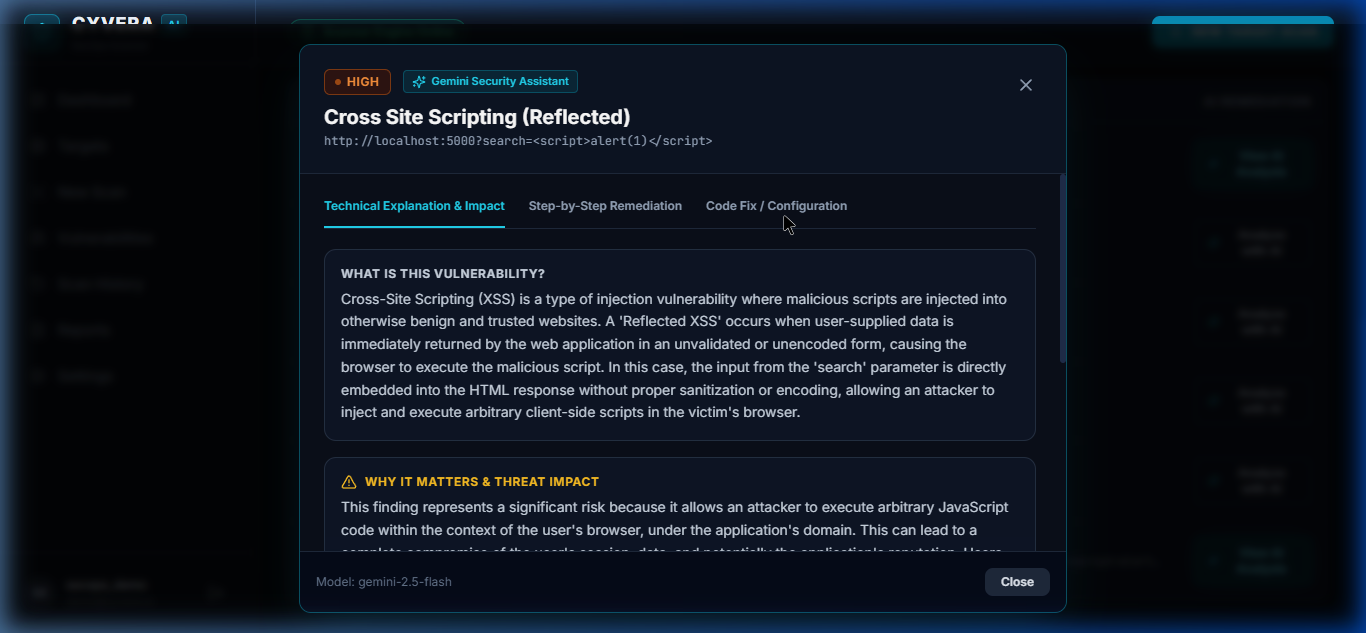
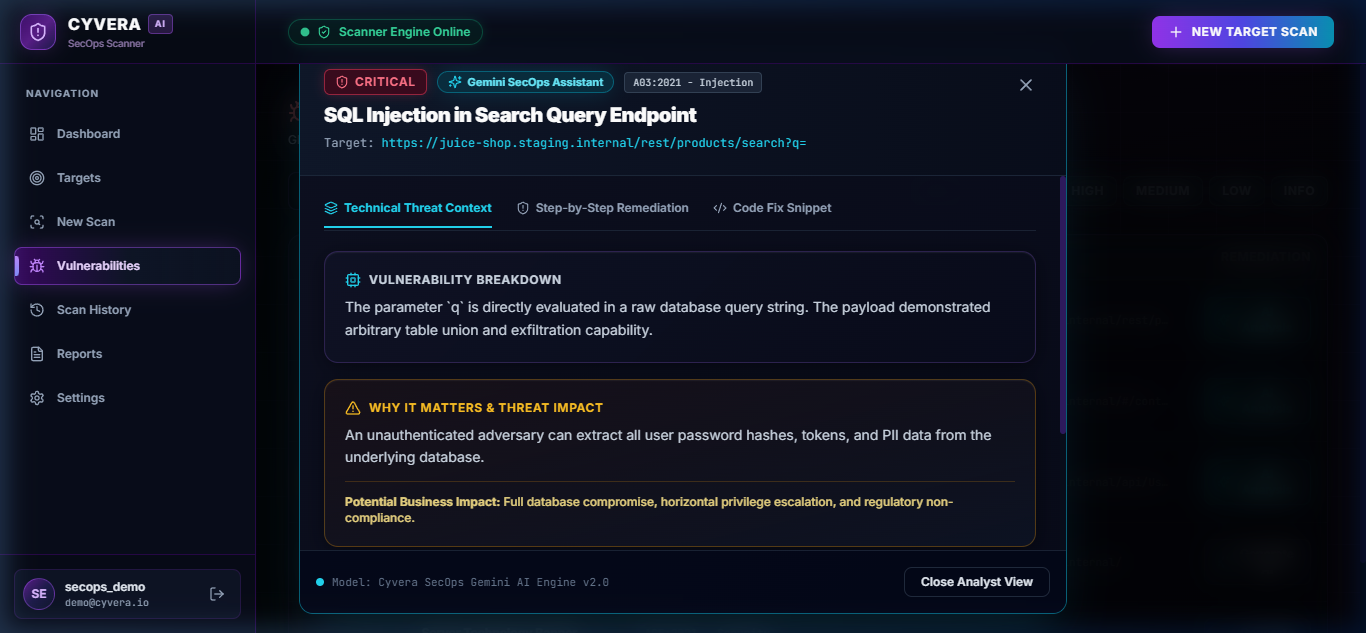
docs: update README with live Vercel link, PWA badge, and refreshed UI screenshots

diff --git a/README.md b/README.md
@@ -1,21 +1,27 @@
 # Cyvera — AI-Powered Web Security Scanner
 
 <p align="center">
+  <a href="https://cyvera-chi.vercel.app" target="_blank">
+    <img src="https://img.shields.io/badge/Vercel-Live_Demo-black?style=for-the-badge&logo=vercel&logoColor=white" alt="Vercel Live Demo" />
+  </a>
   <img src="https://img.shields.io/badge/FastAPI-009688?style=for-the-badge&logo=fastapi&logoColor=white" alt="FastAPI" />
   <img src="https://img.shields.io/badge/React_18-20232A?style=for-the-badge&logo=react&logoColor=61DAFB" alt="React" />
   <img src="https://img.shields.io/badge/TypeScript-007ACC?style=for-the-badge&logo=typescript&logoColor=white" alt="TypeScript" />
   <img src="https://img.shields.io/badge/Tailwind_CSS-38B2AC?style=for-the-badge&logo=tailwind-css&logoColor=white" alt="Tailwind CSS" />
   <img src="https://img.shields.io/badge/OWASP_ZAP-231F20?style=for-the-badge&logo=owasp&logoColor=white" alt="OWASP ZAP" />
   <img src="https://img.shields.io/badge/Google_GenAI-4285F4?style=for-the-badge&logo=google&logoColor=white" alt="Google GenAI" />
-  <img src="https://img.shields.io/badge/Docker-2496ED?style=for-the-badge&logo=docker&logoColor=white" alt="Docker" />
+  <img src="https://img.shields.io/badge/PWA-Ready-9333EA?style=for-the-badge&logo=pwa&logoColor=white" alt="PWA Ready" />
   <img src="https://img.shields.io/badge/Python_3.12+-3776AB?style=for-the-badge&logo=python&logoColor=white" alt="Python" />
 </p>
+
+🌐 **Live Web Application & PWA:** [https://cyvera-chi.vercel.app](https://cyvera-chi.vercel.app)
 
 **Cyvera** is an automated web vulnerability management and security assessment platform. It bridges the gap between raw DAST (Dynamic Application Security Testing) scanners and developer remediation by combining automated vulnerability discovery, **OWASP Top 10 (2021)** classification, **deterministic security scoring (0–100)**, and **Google Gemini 2.5 AI** for contextual root-cause analysis and framework-specific patch code.
 
 ---
 
 ## Table of Contents
+- [Live Demo & Quick Access](#live-demo--quick-access)
 - [Key Features](#key-features)
 - [Architecture & Data Flow](#architecture--data-flow)
 - [Technology Stack](#technology-stack)
@@ -34,6 +40,16 @@
 - [Screenshots & UI Showcase](#screenshots--ui-showcase)
 - [Verification & Known Limitations](#verification--known-limitations)
 - [Security & Authorized-Use Policy](#security--authorized-use-policy)
+
+## Live Demo & Quick Access
+
+Cyvera is deployed and live on Vercel with full Progressive Web App (PWA) installation support:
+
+- 🚀 **Live Production Console:** [https://cyvera-chi.vercel.app](https://cyvera-chi.vercel.app)
+- 📱 **PWA Installation:** Open in Chrome / Safari / Edge and click **"Install" / "Yükle"** to add Cyvera to your desktop or mobile home screen.
+- ⚡ **1-Click Demo Evaluation:**
+  - Click **"Fill Demo Credentials (1-Click)"** on the login screen.
+  - Click **"Access Scanner Console"** to instantly explore live dashboards, interactive graphs, and Gemini AI vulnerability remediation modals.
 
 ---
 
